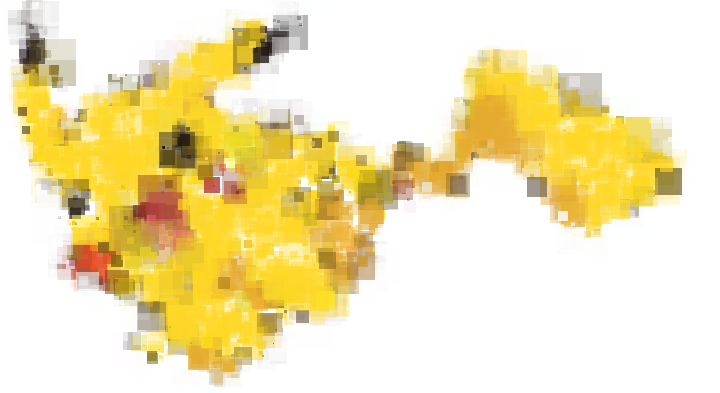
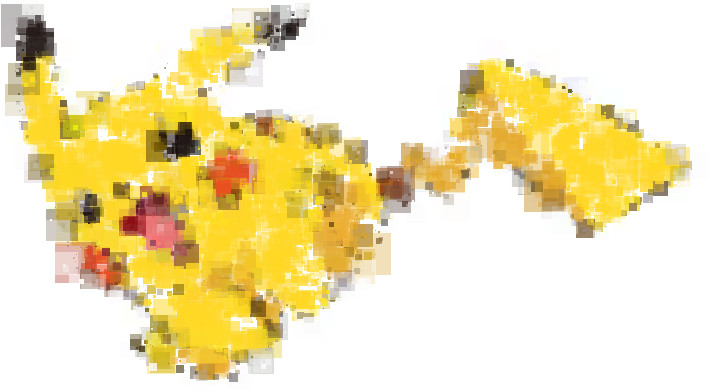
Add borderLess detection

diff --git a/class.pixelArt.php b/class.pixelArt.php
@@ -11,7 +11,9 @@
 	
 	class pixelArt{
 		
-		private $pathImage = "image/";
+		private $pathImage 			= "image/";
+		private $percentBorderLess  = 90;
+		private $borderLessColor    = false;
 
 		public function __construct( $params = array() ){
 			
@@ -40,9 +42,6 @@
 				$this->params["lowerizationLvl"] = 1;	
 			}		
 			
-			
-			
-
 			if( isset($this->params["fileName"]) && $this->params["fileName"] != null){
 				//get image
 				$this->url 				= $this->pathImage . $this->params["fileName"];
@@ -50,12 +49,17 @@
 				
 				//save height and width of image
 				if( $this->imageRessource ){
-			    	$this->imageWidth 	= imagesx( $this->imageRessource );
-			    	$this->imageHeight 	= imagesy( $this->imageRessource );
+			    	$this->imageWidth 	= imagesx( $this->imageRessource )-1;
+			    	$this->imageHeight 	= imagesy( $this->imageRessource )-1;
 
 				}else{
 					echo "Image not loading";
 				}
+			}
+			
+			//border less
+			if( isset($this->params["borderLess"]) && $this->imageRessource){
+				$this->getBorderColor();
 			}
 		}
 		
@@ -71,22 +75,86 @@
 			while( $currentPoint < $this->params["nbrPoint"] ){
 				$currentPoint++;
 				
-				$tmpX = rand(0,$this->imageWidth-1);
-				$tmpY = rand(0,$this->imageHeight-1);
+				$tmpX = rand(0,$this->imageWidth);
+				$tmpY = rand(0,$this->imageHeight);
 				
 				$tmpPixel = $this->getPixelColor($tmpX, $tmpY);
+				
+				if( $this->borderLessColor ){
+					if( $tmpPixel["red"] == $this->borderLessColor["red"] && $tmpPixel["green"] == $this->borderLessColor["green"] && $tmpPixel["blue"] == $this->borderLessColor["blue"] ){
+						continue;
+					}
+				}
+				
 				$this->listOfPoint[] = array(
 					"x" => $tmpX, 
 					"y"	=> $tmpY, 
 					"color" => $tmpPixel
 				);
 			}
-			
+
 		}
 		
 		public function getPixelColor($x, $y){
 			$rgb = imagecolorat($this->imageRessource, $x, $y);
 			return imagecolorsforindex($this->imageRessource, $rgb);
+		}
+		
+		public function getBorderColor(){
+			$arrayColor = array();
+			$nbrPixel = 0;
+			//top and bottom
+			for($w = 0; $w <= $this->imageWidth; $w++){
+				$tmpPixel = $this->getPixelColor($w, 0);
+				if( !isset($arrayColor[$tmpPixel["red"]][$tmpPixel["green"]][$tmpPixel["blue"]]) ){
+					$arrayColor[$tmpPixel["red"]][$tmpPixel["green"]][$tmpPixel["blue"]] = 1;
+				}else{
+					$arrayColor[$tmpPixel["red"]][$tmpPixel["green"]][$tmpPixel["blue"]]++;
+				}
+				$tmpPixel = $this->getPixelColor($w, $this->imageHeight);
+				if( !isset($arrayColor[$tmpPixel["red"]][$tmpPixel["green"]][$tmpPixel["blue"]]) ){
+					$arrayColor[$tmpPixel["red"]][$tmpPixel["green"]][$tmpPixel["blue"]] = 1;
+				}else{
+					$arrayColor[$tmpPixel["red"]][$tmpPixel["green"]][$tmpPixel["blue"]]++;
+				}
+				$nbrPixel+=2;
+			}
+			
+			//left and right
+			for($h = 0; $h <= $this->imageHeight; $h++){
+				$tmpPixel = $this->getPixelColor(0, $h);
+				if( !isset($arrayColor[$tmpPixel["red"]][$tmpPixel["green"]][$tmpPixel["blue"]]) ){
+					$arrayColor[$tmpPixel["red"]][$tmpPixel["green"]][$tmpPixel["blue"]] = 1;
+				}else{
+					$arrayColor[$tmpPixel["red"]][$tmpPixel["green"]][$tmpPixel["blue"]]++;
+				}
+				$tmpPixel = $this->getPixelColor($this->imageWidth, $h);
+				if( !isset($arrayColor[$tmpPixel["red"]][$tmpPixel["green"]][$tmpPixel["blue"]]) ){
+					$arrayColor[$tmpPixel["red"]][$tmpPixel["green"]][$tmpPixel["blue"]] = 1;
+				}else{
+					$arrayColor[$tmpPixel["red"]][$tmpPixel["green"]][$tmpPixel["blue"]]++;
+				}
+				$nbrPixel+=2;
+			}
+		
+			//get max
+			$maxBorderOccurenceColor = array();
+			$tmpMax = 0;
+			foreach($arrayColor as $redValue => $redNext){
+				foreach($redNext as $greenValue => $greenNext){
+					foreach($greenNext as $blueValue => $occurence){
+						if( $occurence > $tmpMax ){
+							$tmpMax = $occurence;
+							$maxBorderOccurenceColor = array("red" => $redValue, "green" => $greenValue, "blue" => $blueValue);
+						}
+					}
+				}
+			}
+		
+			//check percent
+			if( ($tmpMax / $nbrPixel * 100) > $this->percentBorderLess ){
+				$this->borderLessColor = $maxBorderOccurenceColor;
+			}
 		}
 		
 		public function makingShape(){
@@ -106,12 +174,6 @@
 			
 			return $tmpImage;
 		}
-		
-				
-		public function convertOpacityPercentToRealOpacityValue( $opacityPercent ){
-			return 127 - $opacityPercent * $this->ratioOpacity;
-		}
-		
 		
 		public function getOpacity( $opacity, $size ){
 			return rand($size * $this->ratioOpacity, $this->maxOpacity);
@@ -179,11 +241,12 @@
 	//params for class
 	$params = array(
 		"fileName"            => "pikachu.jpg",
-		"nbrPoint"            => 5000,
+		"nbrPoint"            => 10000,
 		"shape"               => "rect",
 		"rangeSizeShape"	  => array(0,50),
 		"minOpacity"		  => 30,	//0 = hide | 100 = visible
-		"lowerizationLvl"	  => 2	
+		"lowerizationLvl"	  => 3,
+		"borderLess"		  => true	
 	);
 	
 	//launch object	
